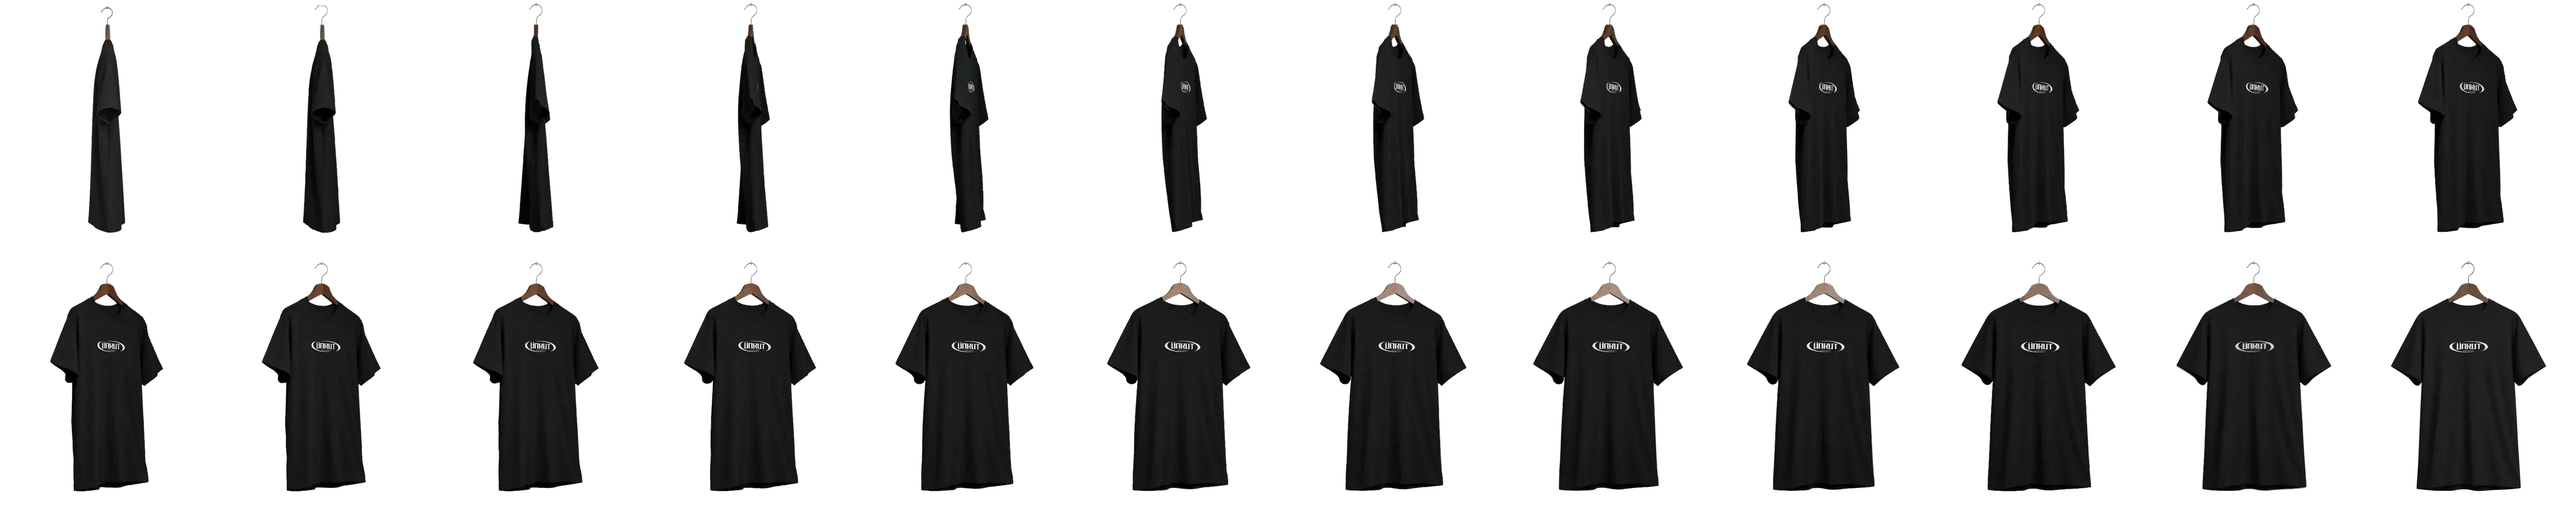
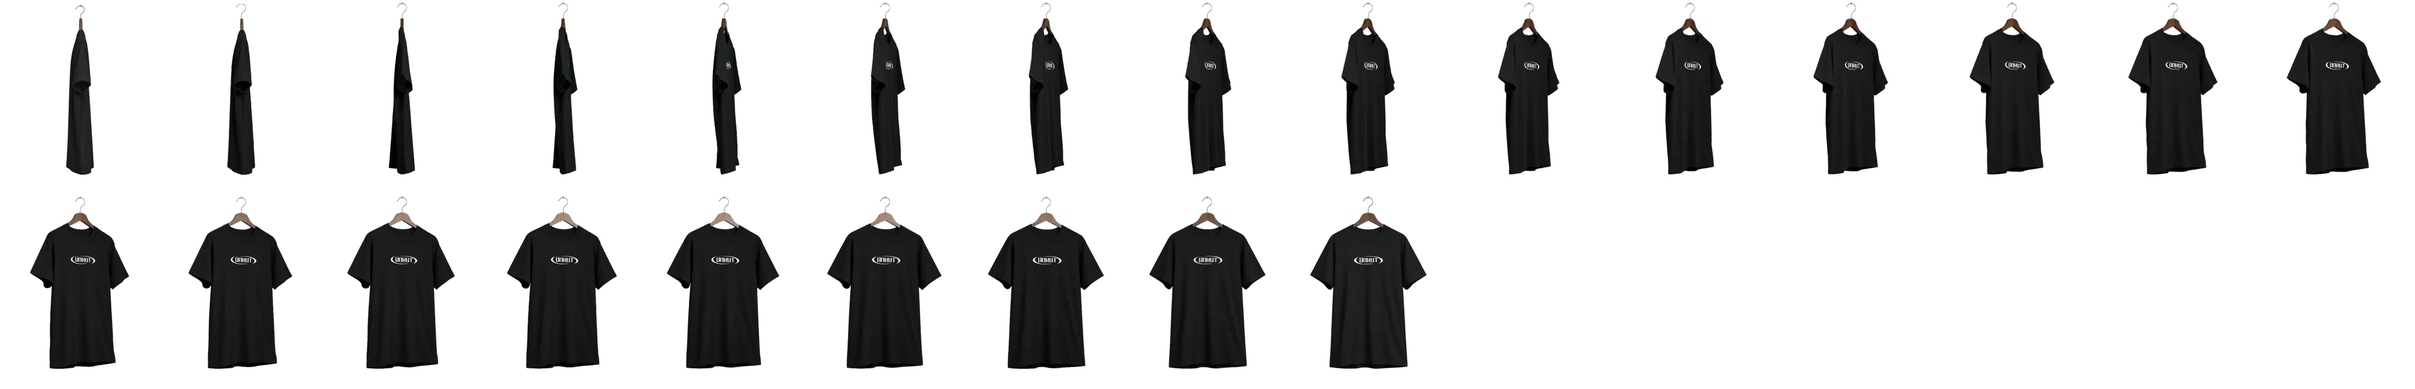
Zoom sans à-coups : décodage des images en arrière-plan, planches de rotation allégées

diff --git a/unkut-3d/store3d.js b/unkut-3d/store3d.js
@@ -27,12 +27,26 @@ const wake = (ms = 900) => { wakeUntil = Math.max(wakeUntil, performance.now() +
 const mgr = new THREE.LoadingManager(); let booted = false;
 mgr.onProgress = (u, l, t) => { wake(); if (!booted) $('#load b').style.width = Math.round(l / t * 100) + '%'; };
 mgr.onLoad = () => { wake(1500); if (booted) return; booted = true; $('#load').classList.add('done'); setTimeout(preloadNext, 1800); };
-const loader = new THREE.TextureLoader(mgr), cache = {};
-function tex(src, cb, fresh){
-  if (!fresh && cache[src]){ if (cb){ cache[src].image ? cb(cache[src]) : cache[src].userData.cbs.push(cb); } return cache[src]; }
-  const t = loader.load(src, () => { t.userData.cbs.forEach(f => f(t)); t.userData.cbs = []; wake(); });
-  t.userData.cbs = cb ? [cb] : []; t.colorSpace = THREE.SRGBColorSpace; t.anisotropy = LOW ? 2 : 8;
+/* images décodées hors du fil d'affichage, puis envoyées à la carte graphique une par une, les grosses seulement quand la caméra est posée :
+   c'est ce qui évite les à-coups pendant un zoom */
+const bmpOpts = o => ({ imageOrientation: o, premultiplyAlpha: 'none', colorSpaceConversion: 'none' });
+const useBmp = typeof createImageBitmap === 'function';
+const ldFlip = useBmp ? new THREE.ImageBitmapLoader(mgr).setOptions(bmpOpts('flipY')) : null, ldRaw = useBmp ? new THREE.ImageBitmapLoader(mgr).setOptions(bmpOpts('none')) : null;
+const ldImg = new THREE.ImageLoader(mgr), cache = {}, uploads = [];
+function tex(src, cb, fresh, raw){
+  if (!fresh && cache[src]){ if (cb){ cache[src].userData.ready ? cb(cache[src]) : cache[src].userData.cbs.push(cb); } return cache[src]; }
+  const t = new THREE.Texture(); t.userData.cbs = cb ? [cb] : []; t.colorSpace = THREE.SRGBColorSpace; t.anisotropy = LOW ? 2 : 8;
+  const done = img => { t.image = img; if (useBmp) t.flipY = false; else if (raw) t.flipY = false;
+    t.userData.big = img.width * img.height > 1.3e6; uploads.push(t); if (!booted) flushUploads(true); wake(); };
+  (useBmp ? (raw ? ldRaw : ldFlip) : ldImg).load(src, done);
   if (!fresh) cache[src] = t; return t;
+}
+function flushUploads(all, moving){
+  for (let n = 0; uploads.length && (all || n < 1); n++){
+    const i = moving ? uploads.findIndex(t => !t.userData.big) : 0; if (i < 0) return;
+    const t = uploads.splice(i, 1)[0]; t.needsUpdate = true; renderer.initTexture(t); t.userData.ready = true;
+    t.userData.cbs.forEach(f => f(t)); t.userData.cbs = []; wake();
+  }
 }
 function canvasTex(w, h, draw, rep){
   const c = document.createElement('canvas'); c.width = w; c.height = h; draw(c.getContext('2d'), w, h);
@@ -55,7 +69,7 @@ const ALB = {                      /* [texture, teinte] : la teinte ramène la m
   grid: [gridTex, 1], floor: [TX.sol, .2 / lin(128)], slab: [TX.beton, .045 / lin(160)]      /* plafond : béton sombre, sans grille */
 };
 const EXPO = 1.25;                 /* exposition générale de la lumière calculée */
-const lmTex = n => { const t = tex('store-assets/lm_' + n + (LOW ? '_1k' : '') + '.webp'); t.flipY = false; t.channel = 2; return t; };
+const lmTex = n => { const t = tex('store-assets/lm_' + n + (LOW ? '_1k' : '') + '.webp', null, false, true); t.channel = 2; return t; };
 const LMAP = { shell: lmTex('shell'), motifs: lmTex('motifs') };
 let mirror = null, floorMat = null;
 new GLTFLoader(mgr).load('store-assets/boutique.glb', gl => {
@@ -104,7 +118,7 @@ function makeItem(p, parent, decor){
     it.load = () => { if (it.tS) return; it.tS = tex('stills-web/rest-' + p.k + '.webp', t => setMap(it, t)); };          /* léger : vue de profil */
     it.full = () => { if (it.tF) return; it.load();                                                                        /* à l'approche : face nette + rotation */
       it.tF = tex('stills-web/face-' + p.k + '.webp', () => { it.fr = -1; wake(); });
-      it.tQ = tex('stills-web/mot-' + p.k + '.webp', () => { it.fr = -1; wake(); }, true); it.tQ.repeat.set(1 / q.cols, 1 / rows); };
+      it.tQ = tex('stills-web/mot-' + p.k + '.webp', () => { it.fr = -1; wake(); }, true); it.tQ.repeat.set(1 / q.cols, 1 / rows); it.tQ.generateMipmaps = false; it.tQ.minFilter = THREE.LinearFilter; };
   } else {                                         /* photo à plat détourée sur un vrai cintre : pivote en 3D */
     const f = p.flat, gh = GH * f.gk, w = f.w / f.h * gh;
     it.piv = new THREE.Group(); it.grp.add(it.piv); hangerGeo(it.piv);
@@ -269,7 +283,7 @@ function layout(s, dt){
       const fr = Math.round(it.e * (it.q.frames - 1)), st = it.e <= .001 ? 0 : it.e >= .999 ? 2 : 1;
       if (fr !== it.fr || st !== it.st){
         it.fr = fr; it.st = st;
-        const okQ = it.tQ && it.tQ.image, okF = it.tF && it.tF.image;       /* tant que la rotation n'est pas chargée : bascule simple profil → face */
+        const okQ = it.tQ && it.tQ.userData.ready, okF = it.tF && it.tF.userData.ready;       /* tant que la rotation n'est pas chargée : bascule simple profil → face */
         const t = st === 0 ? it.tS : st === 2 ? (okF ? it.tF : okQ ? it.tQ : it.tS) : okQ ? it.tQ : (it.e > .5 && okF ? it.tF : it.tS);
         if (t && t === it.tQ) it.tQ.offset.set((fr % it.q.cols) / it.q.cols, 1 - (Math.floor(fr / it.q.cols) + 1) / it.rows);
         if (t && it.mesh.material.map !== t){ it.mesh.material.map = t; it.sh.material.map = t; }
@@ -285,7 +299,7 @@ function layout(s, dt){
 
 /* ---------- boucle ---------- */
 const clock = new THREE.Clock(), ray = new THREE.Raycaster(), ndc = new THREE.Vector2(), V = new THREE.Vector3();
-let spin = 0, shown = null, slow = 0, frames = 0;
+let spin = 0, shown = null, slow = 0, frames = 0, lower = false;
 function pick(){ ray.setFromCamera(ndc, camera); const h = ray.intersectObjects(hits, false)[0]; return h ? h.object.userData.it : null; }
 function frame(){
   const dtRaw = clock.getDelta(), dt = Math.min(.05, dtRaw), k = 1 - Math.exp(-dt * 4.2), now = performance.now();
@@ -314,6 +328,8 @@ function frame(){
     el.style.opacity = Math.min(1, (lab.e - .55) * 3);
   } else el.style.opacity = 0;
   /* on ne redessine que si la caméra, un vêtement ou la souris bouge encore */
+  const moving = drag.on || Math.abs(tg.th - cam.th) > .05 || Math.abs(tg.d - cam.d) > .01 || Math.abs(tg.pan - cam.pan) > .01;
+  if (uploads.length){ flushUploads(false, moving); wake(300); }
   let busy = now < wakeUntil || drag.on || Math.abs(spin) > .01 || Math.abs(tg.th - cam.th) > .01 || Math.abs(tg.d - cam.d) > .002 || Math.abs(tg.y - cam.y) > .002 || Math.abs(tg.pan - cam.pan) > .002
     || Math.abs(mouse.x - mouse.sx) > .002 || Math.abs(mouse.y - mouse.sy) > .002;
   if (!busy) stations.forEach(st => { if (Math.abs((zoomed(st) ? 1 : 0) - st.m) > .002) busy = true; st.items.forEach(it => { if (it.shelf ? it.e > .003 && it.e < .997 : it.o > 0 && it.o < 1) busy = true; }); });
@@ -321,7 +337,8 @@ function frame(){
     const t0 = performance.now(); renderer.render(scene, camera);
     /* si l'affichage rame : on coupe d'abord le reflet du sol, puis on baisse la définition */
     slow = slow * .95 + (dtRaw > .034 ? 1 : 0) * .05; frames++;
-    if (frames > 90 && slow > .5){ frames = 0; slow = 0; if (mirror && mirror.visible) setMirror(false); else if (quality > .6){ quality *= .8; resize(); } }
+    if (frames > 90 && slow > .5) lower = true;
+    if (lower && !moving){ lower = false; frames = 0; slow = 0; if (mirror && mirror.visible) setMirror(false); else if (quality > .6){ quality *= .8; resize(); } }
   }
   requestAnimationFrame(frame);
 }
@@ -438,4 +455,4 @@ $('#pxAdd').addEventListener('click', function(){
 
 addEventListener('resize', resize); resize(); cam.d = tg.d; cam.y = tg.y; setView('store');
 requestAnimationFrame(frame);
-window.UKS = { setView, cam, tg, stations, zoom: k => { zoomK = k; setView('zoom'); }, hover: (k, i) => { mouse.on = false; stations[k].hover = i; } };
+window.UKS = { renderer, scene, camera, THREE, uploads, setView, cam, tg, stations, zoom: k => { zoomK = k; setView('zoom'); }, hover: (k, i) => { mouse.on = false; stations[k].hover = i; } };

diff --git a/unkut-3d/store-seq.js b/unkut-3d/store-seq.js
@@ -1,1 +1,1 @@
-window.UKS_SEQ={"blanco": {"W": 1322, "H": 1600, "y0": 4, "gh": 1430, "hx": 658.5, "frames": 24, "cols": 12, "widths": [103, 103, 92, 97, 118, 139, 157, 177, 198, 219, 237, 256, 284, 297, 311, 327, 341, 354, 361, 370, 378, 384, 387, 388]}, "flow": {"W": 1726, "H": 1696, "y0": 8, "gh": 1577, "hx": 856.0, "frames": 29, "cols": 15, "widths": [135, 135, 134, 394, 555, 568, 584, 595, 605, 620, 628, 638, 641, 653, 660, 664, 667, 671, 672, 673, 672, 673, 673, 673, 671, 671, 669, 669, 667]}, "pocket": {"W": 1230, "H": 1600, "y0": 4, "gh": 1417, "hx": 611.5, "frames": 24, "cols": 12, "widths": [106, 104, 111, 133, 153, 168, 188, 203, 223, 244, 262, 286, 307, 322, 327, 339, 348, 355, 364, 366, 371, 371, 371, 373]}, "pulse": {"W": 1718, "H": 1712, "y0": 8, "gh": 1577, "hx": 835.0, "frames": 32, "cols": 16, "widths": [181, 181, 180, 408, 488, 503, 523, 544, 554, 574, 584, 593, 607, 616, 629, 635, 645, 653, 657, 663, 666, 668, 669, 673, 675, 675, 668, 665, 668, 670, 670, 670]}, "fate": {"W": 1338, "H": 1600, "y0": 4, "gh": 1431, "hx": 663.0, "frames": 24, "cols": 12, "widths": [106, 105, 104, 114, 125, 145, 162, 183, 204, 225, 243, 260, 291, 307, 325, 340, 353, 368, 371, 381, 386, 395, 395, 394]}};
+window.UKS_SEQ={"blanco": {"W": 1322, "H": 1600, "y0": 4, "gh": 1430, "hx": 658.5, "frames": 24, "cols": 15, "widths": [103, 103, 92, 97, 118, 139, 157, 177, 198, 219, 237, 256, 284, 297, 311, 327, 341, 354, 361, 370, 378, 384, 387, 388]}, "flow": {"W": 1726, "H": 1696, "y0": 8, "gh": 1577, "hx": 856.0, "frames": 29, "cols": 12, "widths": [135, 135, 134, 394, 555, 568, 584, 595, 605, 620, 628, 638, 641, 653, 660, 664, 667, 671, 672, 673, 672, 673, 673, 673, 671, 671, 669, 669, 667]}, "pocket": {"W": 1230, "H": 1600, "y0": 4, "gh": 1417, "hx": 611.5, "frames": 24, "cols": 16, "widths": [106, 104, 111, 133, 153, 168, 188, 203, 223, 244, 262, 286, 307, 322, 327, 339, 348, 355, 364, 366, 371, 371, 371, 373]}, "pulse": {"W": 1718, "H": 1712, "y0": 8, "gh": 1577, "hx": 835.0, "frames": 32, "cols": 12, "widths": [181, 181, 180, 408, 488, 503, 523, 544, 554, 574, 584, 593, 607, 616, 629, 635, 645, 653, 657, 663, 666, 668, 669, 673, 675, 675, 668, 665, 668, 670, 670, 670]}, "fate": {"W": 1338, "H": 1600, "y0": 4, "gh": 1431, "hx": 663.0, "frames": 24, "cols": 14, "widths": [106, 105, 104, 114, 125, 145, 162, 183, 204, 225, 243, 260, 291, 307, 325, 340, 353, 368, 371, 381, 386, 395, 395, 394]}};

diff --git a/unkut-3d/index.html b/unkut-3d/index.html
@@ -186,7 +186,7 @@ html,body,.uks{background:#060607}
   </div>
 </main>
 <script src="store-data.js"></script>
-<script src="store-seq.js"></script>
-<script type="module" src="store3d.js?v=6"></script>
+<script src="store-seq.js?v=3"></script>
+<script type="module" src="store3d.js?v=9"></script>
 </body>
 </html>
